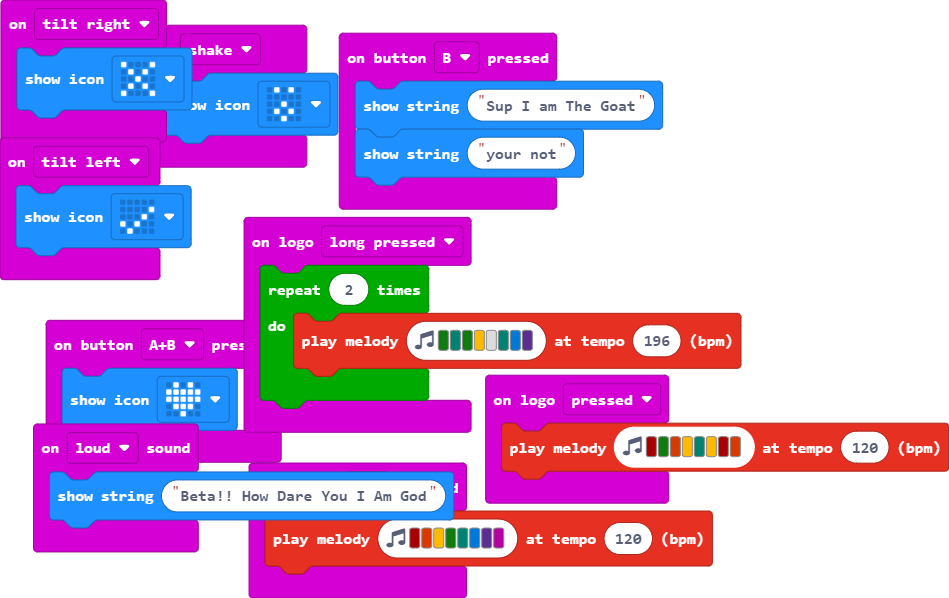
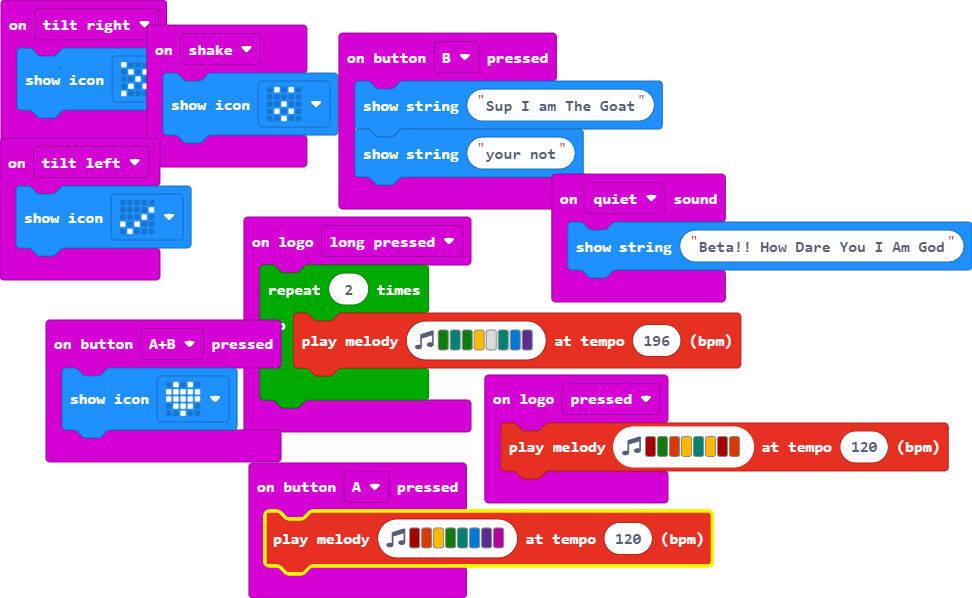
Update main.blocks, main.ts

Changed region(s): [[0.0, 0.0, 1.0, 1.0], [0.0, 0.2408, 0.1222, 0.3311], [0.1528, 0.4214, 0.1834, 0.4816]]

diff --git a/main.ts b/main.ts
@@ -9,9 +9,6 @@ input.onButtonPressed(Button.A, function () {
 input.onGesture(Gesture.TiltLeft, function () {
     basic.showIcon(IconNames.Yes)
 })
-input.onSound(DetectedSound.Loud, function () {
-    basic.showString("Beta!! How Dare You I Am God")
-})
 input.onButtonPressed(Button.AB, function () {
     basic.showIcon(IconNames.Heart)
 })
@@ -24,6 +21,9 @@ input.onGesture(Gesture.Shake, function () {
 })
 input.onGesture(Gesture.TiltRight, function () {
     basic.showIcon(IconNames.No)
+})
+input.onSound(DetectedSound.Quiet, function () {
+    basic.showString("Beta!! How Dare You I Am God")
 })
 input.onLogoEvent(TouchButtonEvent.Pressed, function () {
     music.playMelody("C5 G B A F A C5 B ", 120)
